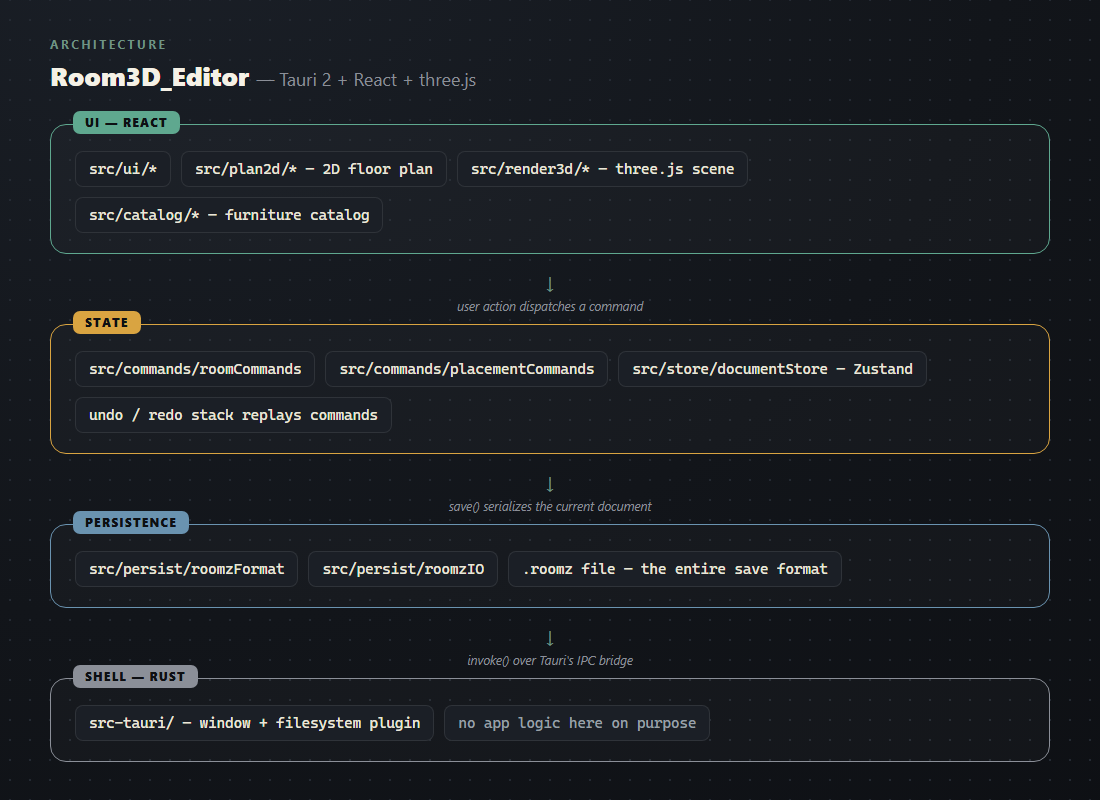
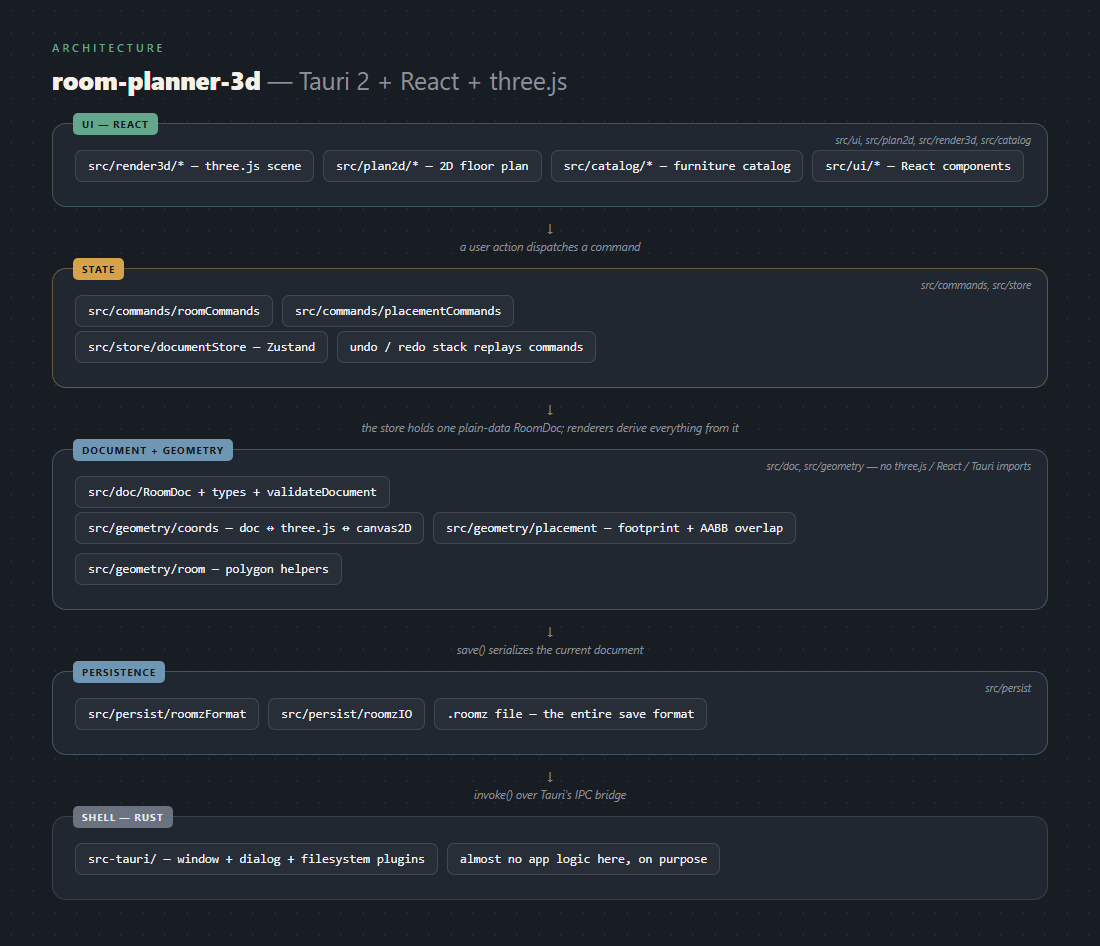
Regenerate the architecture diagram with the doc and geometry layers
The old PNG predated the architecture audit and still showed the pre-rename
name, missing the src/doc and src/geometry boxes the ARCHITECTURE.md table
already lists. Also fixed the stale name in the diagram alt text.

diff --git a/ARCHITECTURE.md b/ARCHITECTURE.md
@@ -8,7 +8,7 @@ from a catalog, move it around in the 2D plan while watching it update live in t
 undo or redo any of that. When you're happy with the layout, save writes it to a `.roomz` file on
 disk; opening that file later restores the exact same room.
 
-![Room3D_Editor architecture: 2D plan, 3D render and catalog feed a Zustand command/undo store holding a plain-data room document, with a geometry layer converting between plan, 3D and file coordinates, persisted to a .roomz file through the Tauri shell](./docs/architecture.png)
+![Room Planner 3D architecture: 2D plan, 3D render and catalog feed a Zustand command/undo store holding a plain-data room document, with a geometry layer converting between plan, 3D and file coordinates, persisted to a .roomz file through the Tauri shell](./docs/architecture.png)
 
 **Why Tauri over Electron**: Tauri ships a Rust shell instead of bundling a full Chromium and
 Node runtime per app, so the installer is a few megabytes instead of over a hundred — worth it for

diff --git a/README.md b/README.md
@@ -33,7 +33,7 @@ npm run tauri dev
 
 ## Architecture
 
-![Room3D_Editor architecture: 2D plan, 3D render and catalog feed a Zustand command/undo store holding a plain-data room document, with a geometry layer converting between plan, 3D and file coordinates, persisted to a .roomz file through the Tauri shell](./docs/architecture.png)
+![Room Planner 3D architecture: 2D plan, 3D render and catalog feed a Zustand command/undo store holding a plain-data room document, with a geometry layer converting between plan, 3D and file coordinates, persisted to a .roomz file through the Tauri shell](./docs/architecture.png)
 
 See [ARCHITECTURE.md](./ARCHITECTURE.md) for the full breakdown.
 
